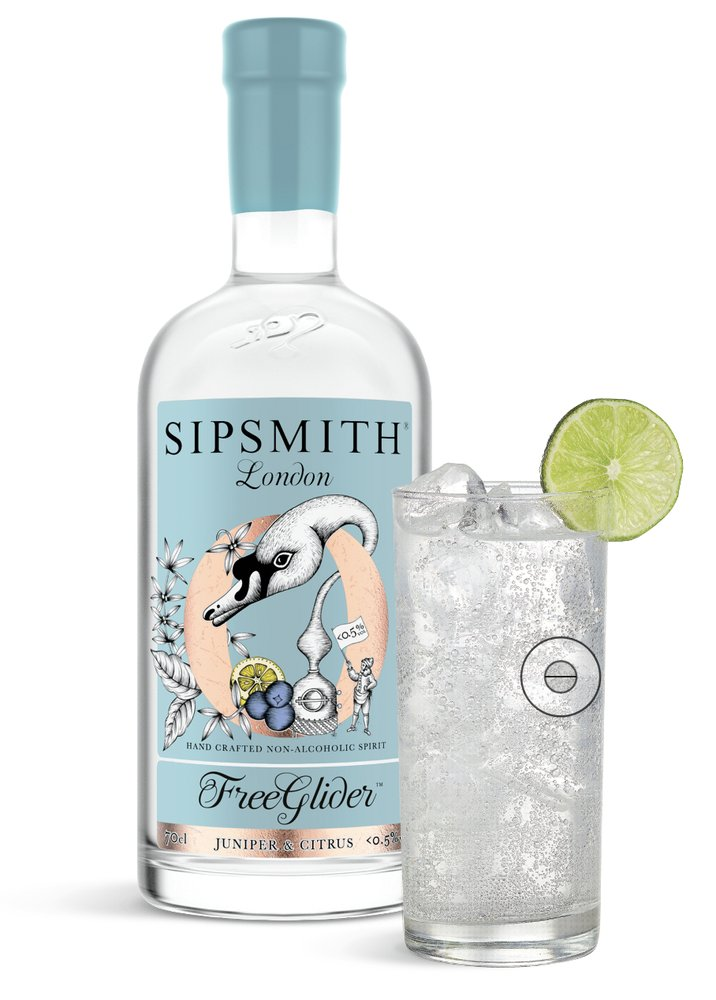
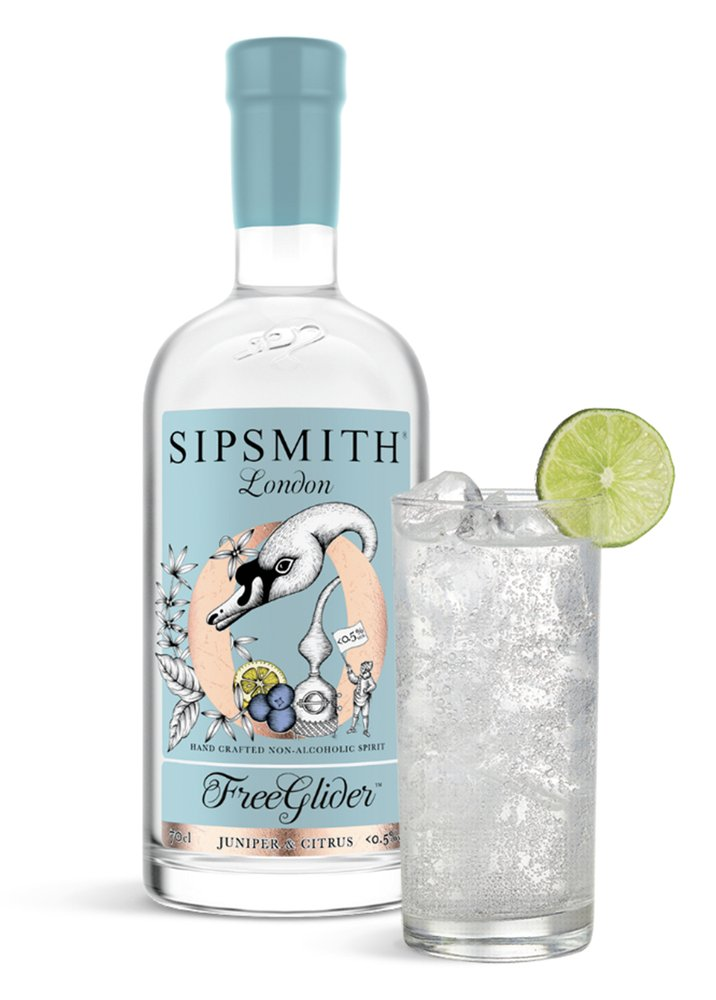
Fix Shop button clicks, remove brand strip, swap Sipsmith image
- Shop buttons: the pointer tilt rotated the card as the cursor moved,
  sliding the button out from under it, and preserve-3d let the hover-
  scaled image paint over the panel. Tilt removed (lift + glare stay),
  flat stacking context, cover button disabled while the panel shows.
  Every card verified clickable on desktop and touch.
- Brand marquee above the footer removed on all pages
- Sipsmith FreeGlider shot replaced with Eleni's new file

Claude-Session: https://claude.ai/code/session_01W7WsAKtG7CKUvTwXq2bVpo

Changed region(s): [[0.1844, 0.31, 0.9525, 0.992], [0.2765, 0.0, 0.5223, 0.341], [0.4609, 0.093, 0.4916, 0.124]]

diff --git a/assets/css/style.css b/assets/css/style.css
@@ -276,7 +276,7 @@ p { margin: 0 0 1em; }
 .drink__toggle { position: absolute; inset: 0; width: 100%; height: 100%; background: transparent; border: 0; padding: 0; margin: 0; cursor: pointer; z-index: 2; color: transparent; font: inherit; border-radius: 4px; }
 .drink__toggle:focus-visible { outline: 2px solid var(--burgundy); outline-offset: 2px; }
 .drink__reveal {
-  position: absolute; inset: 0; z-index: 3; border-radius: 4px;
+  position: absolute; inset: 0; z-index: 10; border-radius: 4px; isolation: isolate;
   background: rgba(126, 49, 50, 0.95); color: var(--white);
   padding: clamp(0.9rem, 2vw, 1.4rem); display: flex; flex-direction: column; justify-content: center; gap: 0.6rem;
   opacity: 0; transform: translateY(12px); transition: opacity 0.4s var(--ease), transform 0.5s var(--ease-out); pointer-events: none;
@@ -291,8 +291,7 @@ p { margin: 0 0 1em; }
 .drink__label { transition: opacity 0.3s var(--ease); }
 .drink.is-open .drink__label { opacity: 0; }
 @media (hover: hover) and (pointer: fine) { .drink:hover .drink__label, .drink:focus-within .drink__label { opacity: 0; } }
-.drink.is-open .drink__toggle { z-index: 4; }
-.drink.is-open .drink__reveal { z-index: 5; }
+.drink.is-open .drink__toggle { z-index: 4; pointer-events: none; }
 .drink.is-open .drink__reveal .btn { position: relative; z-index: 6; }
 .drink__close { display: none; position: absolute; top: 0.5rem; right: 0.5rem; z-index: 7; width: 32px; height: 32px; place-items: center; border-radius: 50%; background: rgba(255, 255, 255, 0.18); color: var(--white); border: 0; cursor: pointer; font-size: 1.1rem; line-height: 1; }
 .drink.is-open .drink__close { display: grid; }
@@ -314,9 +313,10 @@ p { margin: 0 0 1em; }
 
 /* Tilt + glare (hover devices only) */
 @media (hover: hover) and (pointer: fine) {
-  .drinks__grid { perspective: 1200px; }
-  .drinks__grid .drink.is-visible { transform-style: preserve-3d; transform: rotateX(var(--rx, 0deg)) rotateY(var(--ry, 0deg)); transition: transform 0.18s ease-out, box-shadow 0.45s var(--ease), opacity 0.9s var(--ease); }
-  .drinks__grid .drink.is-visible:hover, .drinks__grid .drink.is-visible.is-open { transform: translateY(-4px) rotateX(var(--rx, 0deg)) rotateY(var(--ry, 0deg)); box-shadow: 0 30px 50px -30px rgba(94, 35, 37, 0.5); }
+  /* No pointer tilt: it moved the Shop button away from the cursor. Lift + glare only. */
+  .drinks__grid .drink.is-visible { transition: transform 0.45s var(--ease-out), box-shadow 0.45s var(--ease), opacity 0.9s var(--ease); }
+  .drink:hover .drink__toggle, .drink:focus-within .drink__toggle { pointer-events: none; }
+  .drinks__grid .drink.is-visible:hover, .drinks__grid .drink.is-visible.is-open { transform: translateY(-4px); box-shadow: 0 30px 50px -30px rgba(94, 35, 37, 0.5); }
   .drink__glare { position: absolute; inset: 0; z-index: 8; pointer-events: none; border-radius: inherit; background: radial-gradient(circle at var(--gx, 50%) var(--gy, 50%), rgba(255, 255, 255, 0.35), rgba(255, 255, 255, 0) 55%); opacity: 0; transition: opacity 0.4s var(--ease); mix-blend-mode: soft-light; }
   .drink:hover .drink__glare { opacity: 1; }
 }

diff --git a/articles/no-effort-no-compromise.html b/articles/no-effort-no-compromise.html
@@ -102,10 +102,6 @@
       </div>
     </article>
 
-  <div class="marquee marquee--light" aria-hidden="true">
-    <div class="marquee__track"><span>Suntory Time</span><span>Jim Beam</span><span>Maker’s Mark</span><span>Basil Hayden</span><span>Knob Creek</span><span>Hibiki</span><span>Toki</span><span>Roku</span><span>Haku</span><span>Laphroaig</span><span>Hornitos</span><span>-196</span><span>On The Rocks</span><span>Sipsmith</span><span>Suntory Time</span><span>Jim Beam</span><span>Maker’s Mark</span><span>Basil Hayden</span><span>Knob Creek</span><span>Hibiki</span><span>Toki</span><span>Roku</span><span>Haku</span><span>Laphroaig</span><span>Hornitos</span><span>-196</span><span>On The Rocks</span><span>Sipsmith</span></div>
-  </div>
-
     <section class="section section--tight more">
       <div class="container">
         <div class="more__head reveal">

diff --git a/articles/bringing-craft-home.html b/articles/bringing-craft-home.html
@@ -72,10 +72,6 @@
       </div>
     </article>
 
-  <div class="marquee marquee--light" aria-hidden="true">
-    <div class="marquee__track"><span>Suntory Time</span><span>Jim Beam</span><span>Maker’s Mark</span><span>Basil Hayden</span><span>Knob Creek</span><span>Hibiki</span><span>Toki</span><span>Roku</span><span>Haku</span><span>Laphroaig</span><span>Hornitos</span><span>-196</span><span>On The Rocks</span><span>Sipsmith</span><span>Suntory Time</span><span>Jim Beam</span><span>Maker’s Mark</span><span>Basil Hayden</span><span>Knob Creek</span><span>Hibiki</span><span>Toki</span><span>Roku</span><span>Haku</span><span>Laphroaig</span><span>Hornitos</span><span>-196</span><span>On The Rocks</span><span>Sipsmith</span></div>
-  </div>
-
     <section class="section section--tight more">
       <div class="container">
         <div class="more__head reveal">

diff --git a/articles/where-craft-lives.html b/articles/where-craft-lives.html
@@ -97,10 +97,6 @@
       </div>
     </article>
 
-  <div class="marquee marquee--light" aria-hidden="true">
-    <div class="marquee__track"><span>Suntory Time</span><span>Jim Beam</span><span>Maker’s Mark</span><span>Basil Hayden</span><span>Knob Creek</span><span>Hibiki</span><span>Toki</span><span>Roku</span><span>Haku</span><span>Laphroaig</span><span>Hornitos</span><span>-196</span><span>On The Rocks</span><span>Sipsmith</span><span>Suntory Time</span><span>Jim Beam</span><span>Maker’s Mark</span><span>Basil Hayden</span><span>Knob Creek</span><span>Hibiki</span><span>Toki</span><span>Roku</span><span>Haku</span><span>Laphroaig</span><span>Hornitos</span><span>-196</span><span>On The Rocks</span><span>Sipsmith</span></div>
-  </div>
-
     <section class="section section--tight more">
       <div class="container">
         <div class="more__head reveal">

diff --git a/index.html b/index.html
@@ -501,8 +501,6 @@
       </div>
     </section>
 
-    <div class="marquee marquee--light" aria-hidden="true"><div class="marquee__track"><span>Suntory Time</span><span>Jim Beam</span><span>Maker’s Mark</span><span>Basil Hayden</span><span>Knob Creek</span><span>Hibiki</span><span>Toki</span><span>Roku</span><span>Haku</span><span>Laphroaig</span><span>Hornitos</span><span>-196</span><span>On The Rocks</span><span>Sipsmith</span><span>Suntory Time</span><span>Jim Beam</span><span>Maker’s Mark</span><span>Basil Hayden</span><span>Knob Creek</span><span>Hibiki</span><span>Toki</span><span>Roku</span><span>Haku</span><span>Laphroaig</span><span>Hornitos</span><span>-196</span><span>On The Rocks</span><span>Sipsmith</span></div></div>
-
   </main>
 
   <!-- ===== Footer ===== -->

diff --git a/assets/js/motion.js b/assets/js/motion.js
@@ -168,8 +168,6 @@
       var raf = 0, lx = 0, ly = 0;
       function apply() {
         raf = 0;
-        card.style.setProperty('--rx', (ly * -7).toFixed(2) + 'deg');
-        card.style.setProperty('--ry', (lx * 9).toFixed(2) + 'deg');
         card.style.setProperty('--gx', ((lx + 0.5) * 100).toFixed(1) + '%');
         card.style.setProperty('--gy', ((ly + 0.5) * 100).toFixed(1) + '%');
       }
